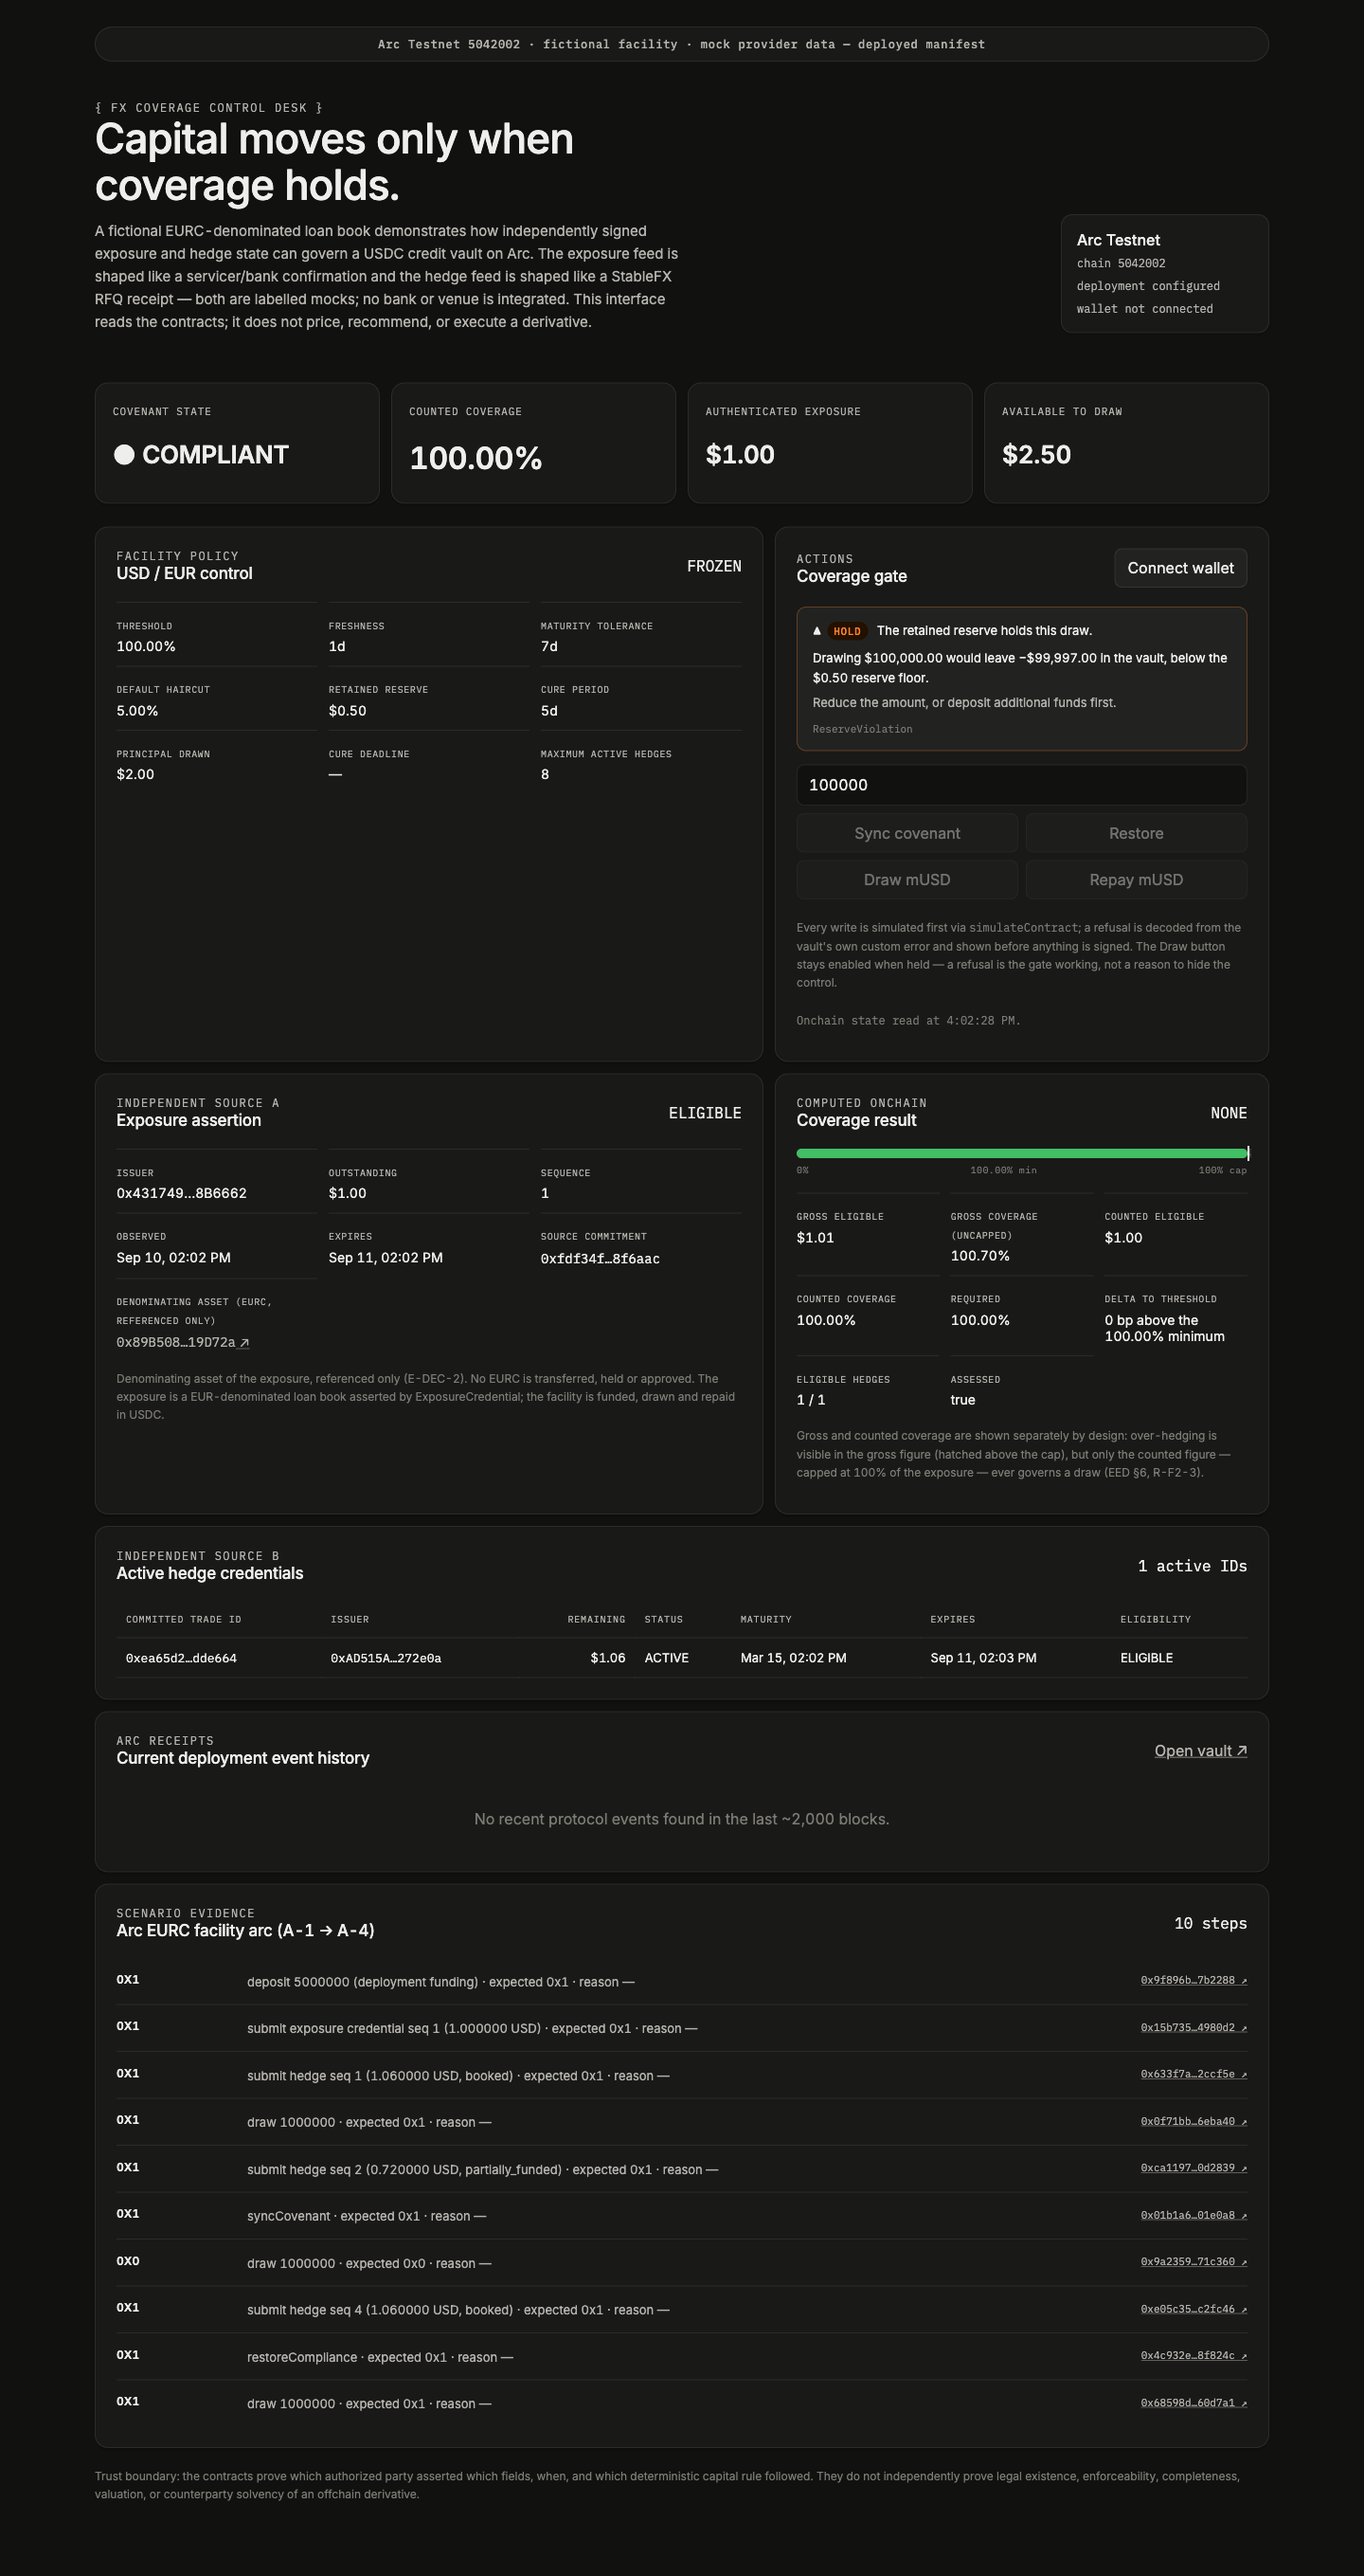
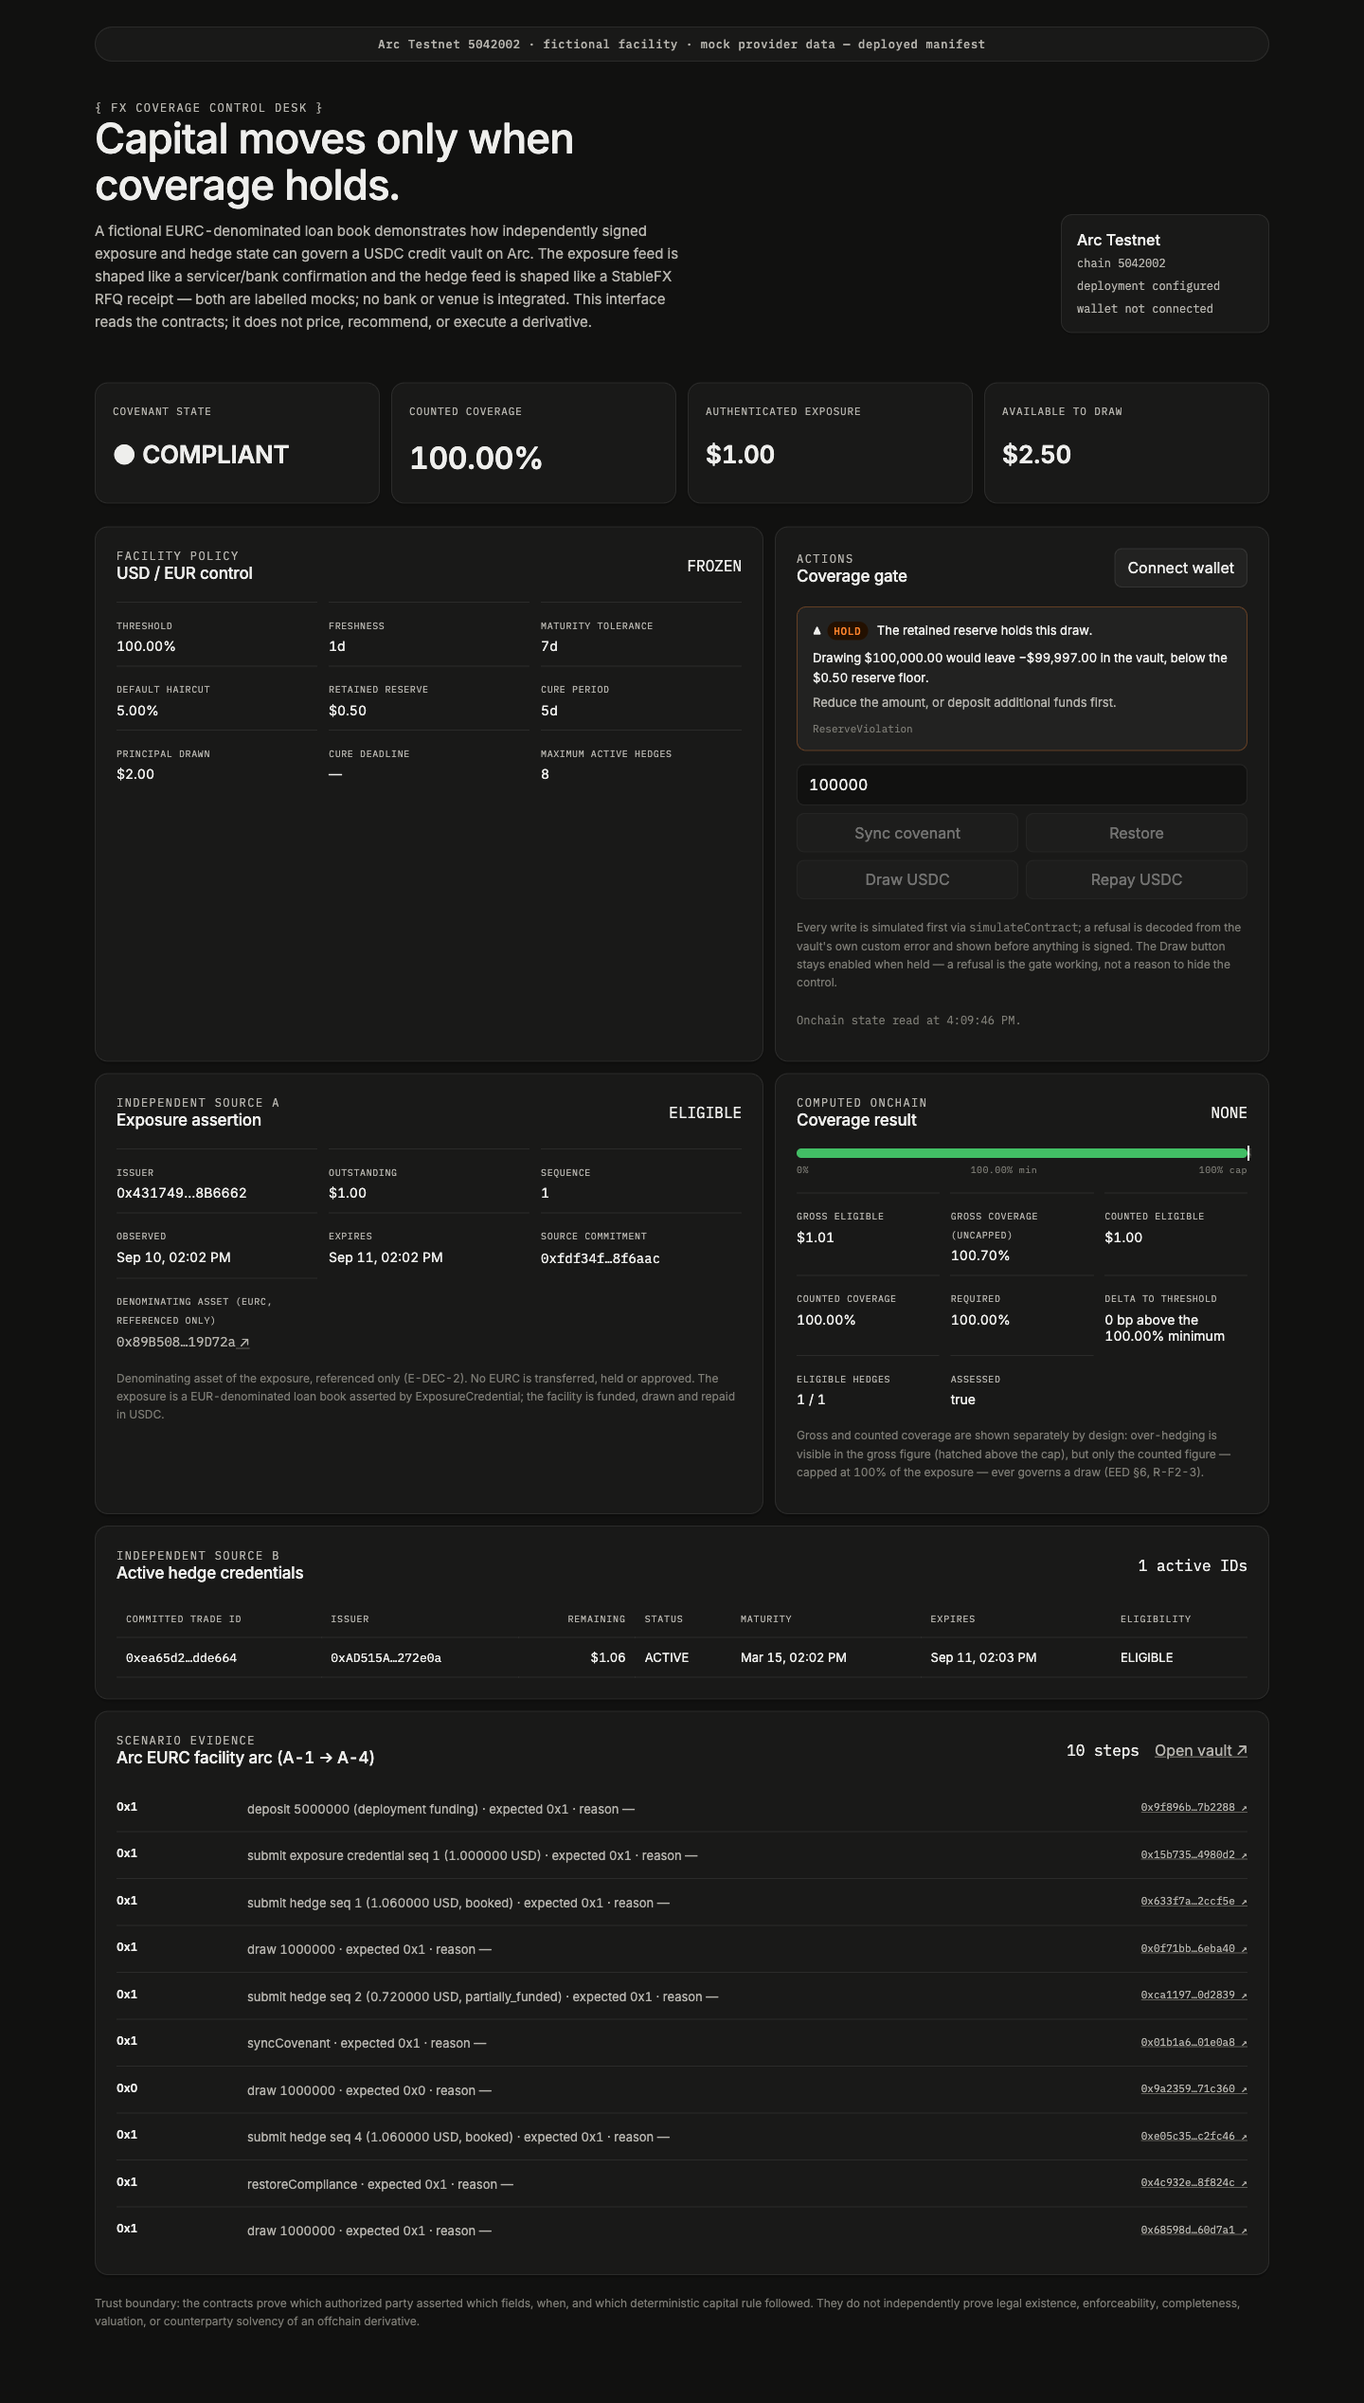
Read the settlement asset's symbol live, drop the stale event-history panel, lowercase hex
Three fixes from reviewing screenshots against the live facility:

1. Qualification-critical: "Draw mUSD" / "Repay mUSD" were hardcoded
   left over from when this used MockUSDC. On Arc the settlement asset
   is the real USDC predeploy (0x3600…0000) — a Circle judge reading
   "mUSD" would reasonably conclude the demo uses a mock token instead
   of Arc's native USDC, which is the actual qualification criterion.
   Now reads symbol() from the settlement asset as part of the same
   live Promise.all, with the manifest's own settlementAsset.symbol as
   the fallback before the first read lands — it can't drift again
   because it's never typed in twice.

2. The live "Arc receipts" event-history panel narrowed to a 2,000-
   block window last commit to stop crashing the whole read, but Arc's
   sub-second blocks mean that's roughly half an hour — the panel will
   be empty in every demo since the acceptance run is already hours
   old. Dropped it rather than widen the window (reintroduces the
   getLogs range crash) or duplicate the Scenario Evidence table's ten
   rows in a second panel. The "Open vault ↗" explorer link moved into
   the Scenario Evidence panel head, which already carries the same
   deployment's full A-1 → A-4 record with working links — an empty
   panel is worse than no panel, and this removes the failure mode
   instead of just narrowing its window.

3. Scenario evidence rows rendered receipt status as 0X1/0X0
[…]

diff --git a/apps/dashboard/src/main.ts b/apps/dashboard/src/main.ts
@@ -5,7 +5,6 @@ import {
   createPublicClient,
   createWalletClient,
   custom,
-  decodeEventLog,
   formatUnits,
   http,
   type Abi,
@@ -91,12 +90,6 @@ type CoverageResult = {
   resultReason: number;
 };
 type HedgeView = StoredHedge & { eligibilityReason: number; adjustedNotional: bigint };
-type HistoryItem = {
-  eventName: string;
-  transactionHash: Hex;
-  blockNumber: bigint;
-  summary: string;
-};
 type ArcEvidenceStep = {
   action?: unknown;
   transactionHash?: unknown;
@@ -116,7 +109,7 @@ type LiveState = {
   cureDeadline: bigint;
   availableToDraw: bigint;
   hedges: HedgeView[];
-  history: HistoryItem[];
+  tokenSymbol: string;
 };
 
 // The three outcomes a write can settle into (research §5.1). Only the last one is an
@@ -249,7 +242,6 @@ let gate: GateState = { status: "idle" };
 let gateRequestId = 0;
 let gateDebounce: ReturnType<typeof setTimeout> | undefined;
 let lastActionOutcome: ActionOutcome | undefined;
-let historyError = "";
 const arcEvidence = loadArcEvidence();
 
 render();
@@ -265,7 +257,7 @@ async function refreshLive() {
   errorMessage = "";
   render();
   try {
-    const [policy, exposure, coverage, state, principal, cureDeadline, available, tradeIds] =
+    const [policy, exposure, coverage, state, principal, cureDeadline, available, tradeIds, tokenSymbol] =
       await Promise.all([
         read(addresses.facilityRegistry, facilityRegistryAbi, "getFacility", [facilityId]),
         read(addresses.credentialRegistry, credentialRegistryAbi, "currentExposure", [
@@ -279,6 +271,10 @@ async function refreshLive() {
         read(addresses.credentialRegistry, credentialRegistryAbi, "hedgeTradeIds", [
           facilityId,
         ]),
+        // Never hardcode the settlement asset's symbol — on Arc it is the real USDC
+        // predeploy, not a mock, and a stale hardcoded label is a claims-discipline bug
+        // as well as a cosmetic one. Ask the contract itself, every time.
+        read(addresses.token, mockTokenAbi, "symbol"),
       ]);
     const hedges = await Promise.all(
       (tradeIds as Hex[]).map(async (tradeId) => {
@@ -309,7 +305,7 @@ async function refreshLive() {
       cureDeadline: cureDeadline as bigint,
       availableToDraw: available as bigint,
       hedges,
-      history: await loadHistory(),
+      tokenSymbol: tokenSymbol as string,
     };
     lastRefreshedAt = Date.now();
     stale = false;
@@ -459,11 +455,11 @@ function render() {
           <div class="panel-head"><div><div class="section-kicker">Actions</div><h2>Coverage gate</h2></div><button id="connect" class="action">${walletAddress ? short(walletAddress) : "Connect wallet"}</button></div>
           <div id="draw-gate" class="gate gate-${gate.status}">${gateMarkup()}</div>
           <div class="controls">
-            <input id="amount" inputmode="decimal" value="${escapeHtml(amountValue)}" aria-label="Amount in mock USD" class="num" />
+            <input id="amount" inputmode="decimal" value="${escapeHtml(amountValue)}" aria-label="Amount in ${escapeHtml(tokenLabel())}" class="num" />
             <button id="sync" class="action-primary" ${disabled()}>Sync covenant</button>
             <button id="restore" ${disabled()}>Restore</button>
-            <button id="draw" ${disabled()}>Draw mUSD</button>
-            <button id="repay" ${disabled()}>Repay mUSD</button>
+            <button id="draw" ${disabled()}>Draw ${escapeHtml(tokenLabel())}</button>
+            <button id="repay" ${disabled()}>Repay ${escapeHtml(tokenLabel())}</button>
           </div>
           ${actionOutcomeMarkup()}
           <p class="footer-note">Every write is simulated first via <span class="mono">simulateContract</span>; a refusal is decoded from the vault's own custom error and shown before anything is signed. The Draw button stays enabled when held — a refusal is the gate working, not a reason to hide the control.</p>
@@ -514,12 +510,13 @@ function render() {
       </section>
 
       <section class="panel">
-        <div class="panel-head"><div><div class="section-kicker">Arc receipts</div><h2>Current deployment event history</h2></div>${configured && explorerUrl && addresses ? `<a href="${explorerUrl}/address/${addresses.covenantVault}" target="_blank" rel="noreferrer">Open vault ↗</a>` : ""}</div>
-        <div class="timeline">${liveHistoryRows()}</div>
-      </section>
-
-      <section class="panel">
-        <div class="panel-head"><div><div class="section-kicker">Scenario evidence</div><h2>Arc EURC facility arc (A-1 → A-4)</h2></div><span class="mono">${arcEvidence ? `${arcEvidence.steps.length} steps` : "not yet recorded"}</span></div>
+        <div class="panel-head">
+          <div><div class="section-kicker">Scenario evidence</div><h2>Arc EURC facility arc (A-1 → A-4)</h2></div>
+          <div class="panel-head-actions">
+            <span class="mono">${arcEvidence ? `${arcEvidence.steps.length} steps` : "not yet recorded"}</span>
+            ${configured && explorerUrl && addresses ? `<a href="${explorerUrl}/address/${addresses.covenantVault}" target="_blank" rel="noreferrer">Open vault ↗</a>` : ""}
+          </div>
+        </div>
         ${arcEvidenceRows()}
       </section>
 
@@ -665,67 +662,6 @@ async function writeSimulatedRequest(wallet: ReturnType<typeof createWalletClien
   }
 }
 
-// Arc's public RPC rejects eth_getLogs over a wide range with -32012 "requested range
-// too large" (confirmed against rpc.testnet.arc.network directly — the exact cap isn't
-// documented and the RPC also rate-limits under repeated calls, -32005). 2,000 blocks
-// stays comfortably under both observed thresholds.
-const HISTORY_BLOCK_WINDOW = 2_000n;
-
-async function loadHistory(): Promise<HistoryItem[]> {
-  if (!addresses) return [];
-  let logs;
-  try {
-    const currentBlock = await publicClient.getBlockNumber();
-    const fromBlock =
-      currentBlock > HISTORY_BLOCK_WINDOW ? currentBlock - HISTORY_BLOCK_WINDOW : 0n;
-    logs = await publicClient.getLogs({
-      address: [
-        addresses.facilityRegistry,
-        addresses.credentialRegistry,
-        addresses.covenantVault,
-      ],
-      fromBlock,
-      toBlock: "latest",
-    } as never);
-    historyError = "";
-  } catch (error) {
-    // A degraded history read must never take the whole live read down with it — the
-    // facility policy, coverage, and state are already known-good by the time this
-    // runs, and history is the least essential thing on the page (E-UI-5: the failure
-    // state should be as narrow as what actually failed, not the whole dashboard).
-    historyError = errorText(error);
-    return [];
-  }
-  const combinedAbi = [
-    ...facilityRegistryAbi,
-    ...credentialRegistryAbi,
-    ...covenantVaultAbi,
-  ] as Abi;
-  return logs
-    .flatMap((log) => {
-      try {
-        const decoded = decodeEventLog({
-          abi: combinedAbi,
-          data: log.data,
-          topics: log.topics,
-          strict: false,
-        } as never) as { eventName: string; args: Record<string, unknown> };
-        return [
-          {
-            eventName: decoded.eventName,
-            transactionHash: log.transactionHash!,
-            blockNumber: log.blockNumber!,
-            summary: summarizeArgs(decoded.args),
-          },
-        ];
-      } catch {
-        return [];
-      }
-    })
-    .sort((a, b) => Number(b.blockNumber - a.blockNumber))
-    .slice(0, 24);
-}
-
 function loadArcEvidence(): ArcEvidence | undefined {
   const modules = import.meta.glob<{ default: unknown }>(
     "../../../scenarios/output/arc-facility-evidence.json",
@@ -745,6 +681,15 @@ async function read(
   args: readonly unknown[] = [],
 ): Promise<unknown> {
   return publicClient.readContract({ address, abi, functionName, args } as never);
+}
+
+// Read live, never hardcoded: on Arc the settlement asset is the real USDC predeploy
+// (0x3600…0000), not a mock, and a stale "mUSD" label is a claims-discipline bug, not
+// just a cosmetic one — it reads as demoing with a mock when the facility uses Arc's
+// native USDC. Falls back to the manifest's own symbol before the first live read
+// lands, so the buttons are never wrong even for a moment.
+function tokenLabel() {
+  return live?.tokenSymbol ?? manifest?.settlementAsset.symbol ?? "the settlement asset";
 }
 
 function manifestBadge() {
@@ -932,24 +877,6 @@ function hedgeRows() {
     .join("");
 }
 
-function liveHistoryRows() {
-  if (historyError) {
-    return `<div class="empty">Could not read recent events: ${escapeHtml(historyError)}. The panels above are unaffected — this read is independent.</div>`;
-  }
-  if (!live?.history.length) {
-    return `<div class="empty">${configured ? "No recent protocol events found in the last ~2,000 blocks." : "Configure a deployment to read Arc events."}</div>`;
-  }
-  return live.history
-    .map(
-      (item) => `<div class="event">
-        <div class="event-state">${escapeHtml(item.eventName)}</div>
-        <div class="event-copy">${escapeHtml(item.summary)}</div>
-        <div class="event-meta">block ${item.blockNumber}<br/>${transactionLink(item.transactionHash)}</div>
-      </div>`,
-    )
-    .join("");
-}
-
 function arcEvidenceRows() {
   if (!arcEvidence?.steps.length) {
     return `<div class="empty">Awaiting <span class="mono">scenarios/arc-facility.ts</span> (Lane B). This panel reads <span class="mono">scenarios/output/arc-facility-evidence.json</span> automatically once that file exists — nothing fabricated shown in its place.</div>`;
@@ -963,7 +890,7 @@ function arcEvidenceRows() {
       const reason =
         typeof step.resultReason === "number" ? resultReasons[step.resultReason] ?? "UNKNOWN" : "—";
       return `<div class="event">
-        <div class="event-state">${escapeHtml(actual.toUpperCase())}</div>
+        <div class="event-state">${escapeHtml(actual)}</div>
         <div class="event-copy">${escapeHtml(action)} · expected ${escapeHtml(expected)} · reason ${escapeHtml(reason)}</div>
         <div class="event-meta">${hash ? transactionLink(hash as Hex) : "—"}</div>
       </div>`;
@@ -975,14 +902,6 @@ function transactionLink(hash: Hex) {
   return explorerUrl
     ? `<a href="${explorerUrl}/tx/${hash}" target="_blank" rel="noreferrer">${short(hash)} ↗</a>`
     : short(hash);
-}
-
-function summarizeArgs(args: Record<string, unknown>) {
-  const values = Object.entries(args)
-    .filter(([key]) => !/^\d+$/.test(key))
-    .slice(0, 4)
-    .map(([key, value]) => `${key}: ${formatUnknown(value)}`);
-  return values.length ? values.join(" · ") : "Protocol state transition";
 }
 
 function formatUnknown(value: unknown): string {

diff --git a/apps/dashboard/src/styles.css b/apps/dashboard/src/styles.css
@@ -320,6 +320,12 @@ h1 {
   margin-bottom: 20px;
 }
 
+.panel-head-actions {
+  display: flex;
+  gap: 16px;
+  align-items: center;
+}
+
 .panel h2 {
   margin-bottom: 0;
   font-size: 17px;
